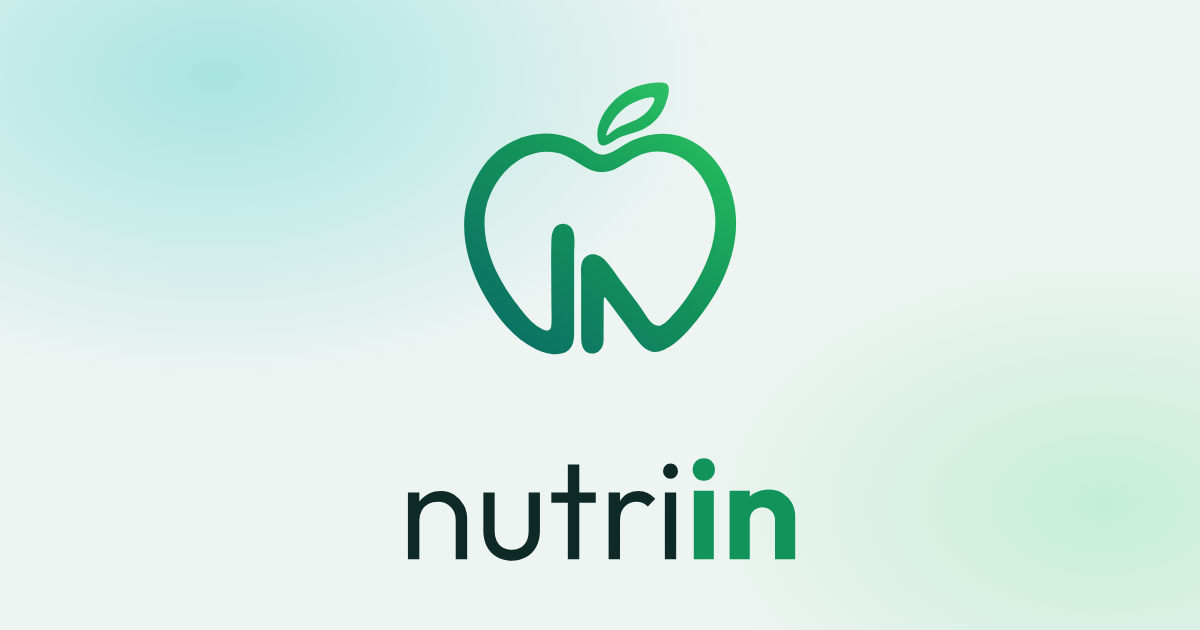
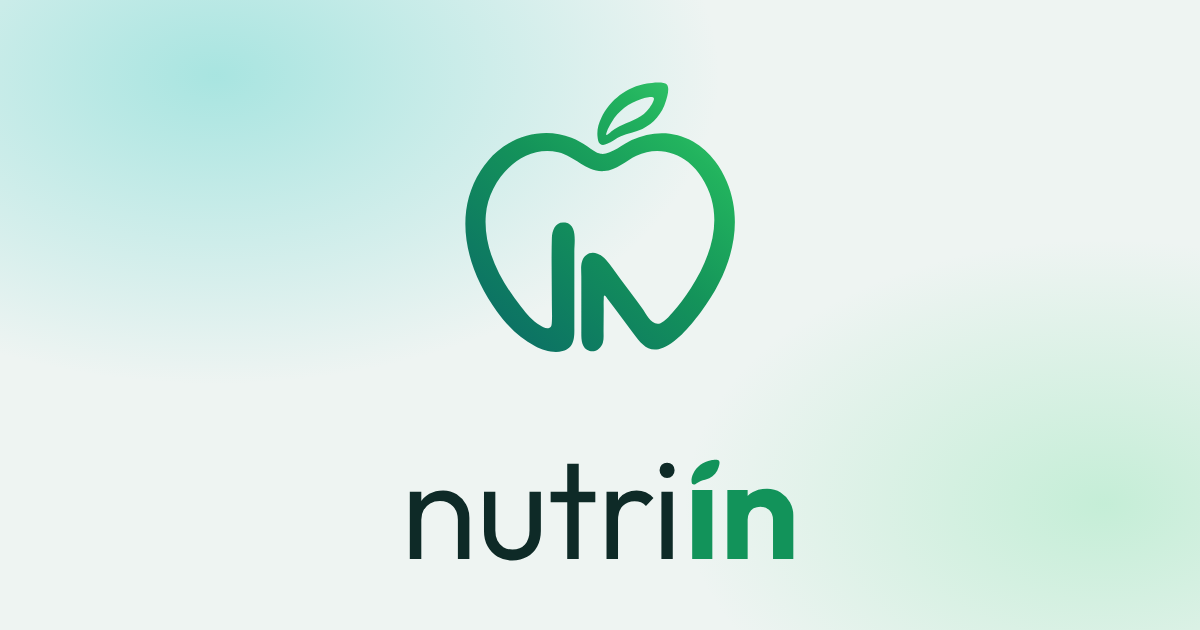
Nutriin: надписът — точката на „i“ в „in“ е листото от знака; разредката изправена
Claude-Session: https://claude.ai/code/session_01AAmbBaVt2HSrok4C214enD

diff --git a/design-system.css b/design-system.css
@@ -1936,7 +1936,7 @@ nav.bottom-nav .bottom-nav-item:focus-visible {
    <span class="ex-logo" role="img" aria-label="Nutriin"></span>  (хоризонтално, следва темата)
    <span class="ex-mark"></span>                                         (само знакът)
    =========================== */
-.ex-logo { display: inline-block; height: 28px; aspect-ratio: 3514 / 1000; background: var(--brand-logo) left center / contain no-repeat; vertical-align: middle; }
+.ex-logo { display: inline-block; height: 28px; aspect-ratio: 3433 / 1000; background: var(--brand-logo) left center / contain no-repeat; vertical-align: middle; }
 .ex-mark { display: inline-block; width: 28px; height: 28px; background: url('brand/nutriin-mark.svg') center / contain no-repeat; vertical-align: middle; }
 .ex-gradient-text { background: var(--brand-gradient); -webkit-background-clip: text; background-clip: text; color: transparent; }
 

diff --git a/protocol-page.css b/protocol-page.css
@@ -653,7 +653,7 @@ main.wrap { padding-bottom: 56px; }
 }
 
 /* Името EATO | LOGIX — цветният надпис от логото; на тъмна тема EATO е светъл. */
-.brand-word { display: inline-block; height: 18px; aspect-ratio: 2900 / 799; background: url('brand/nutriin-wordmark.svg') left center / contain no-repeat; }
+.brand-word { display: inline-block; height: 18px; aspect-ratio: 2858 / 814; background: url('brand/nutriin-wordmark.svg') left center / contain no-repeat; }
 [data-theme="dark"] .brand-word { background-image: url('brand/nutriin-wordmark-dark.svg'); }
 
 /* ── Стъкло и слоеве (същият език като XB-Studio и лендингите на модулите) ──
